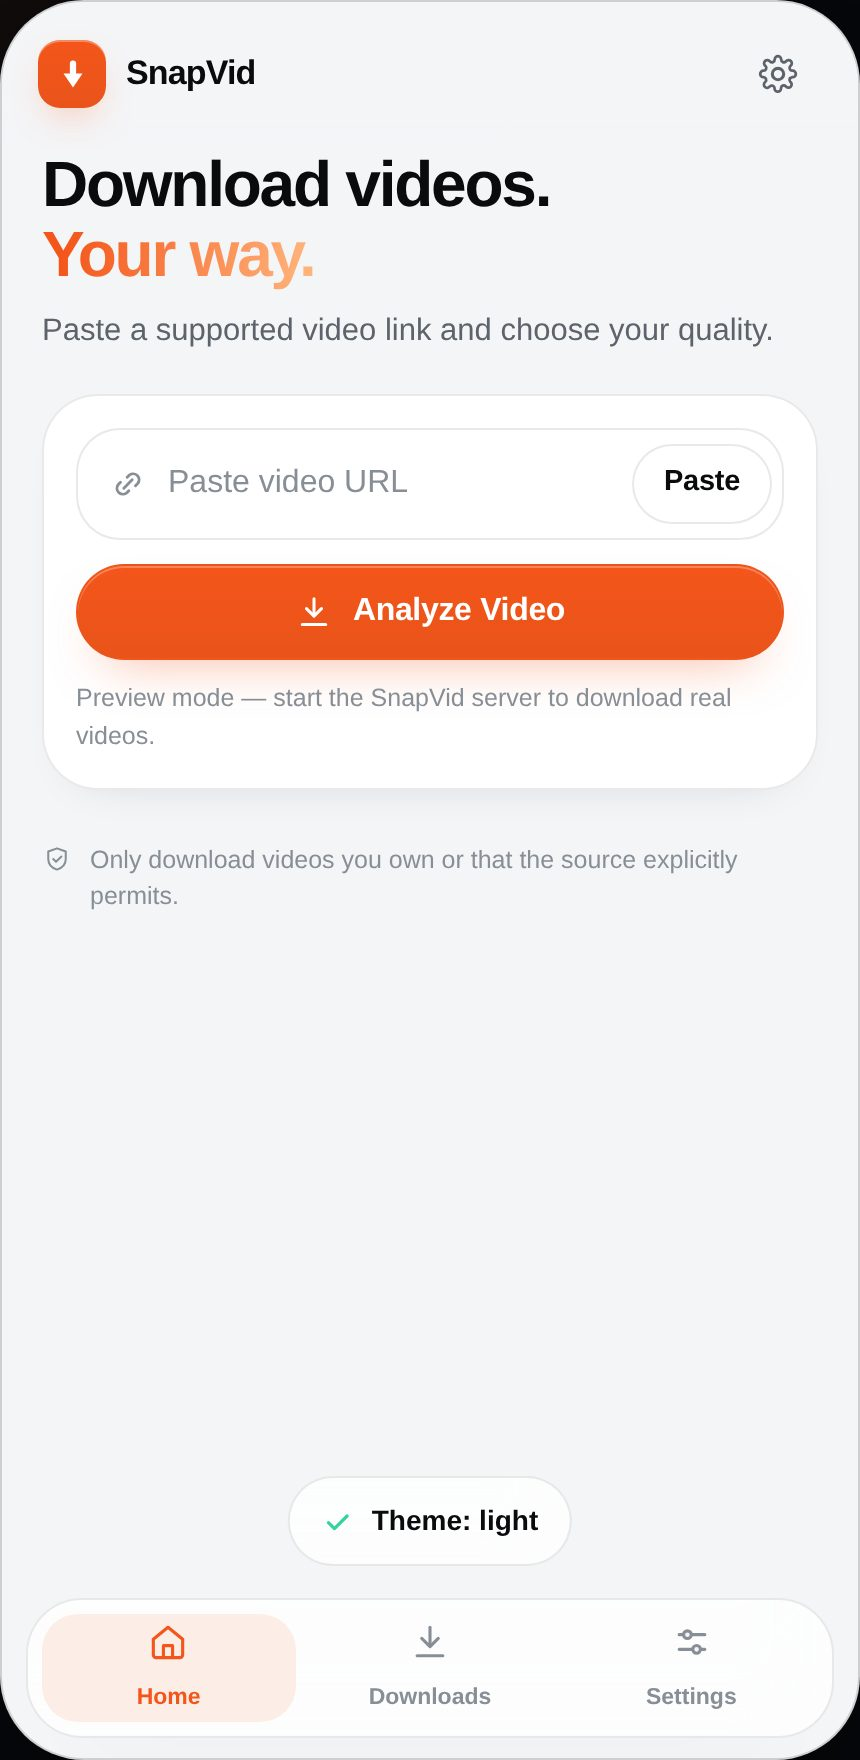
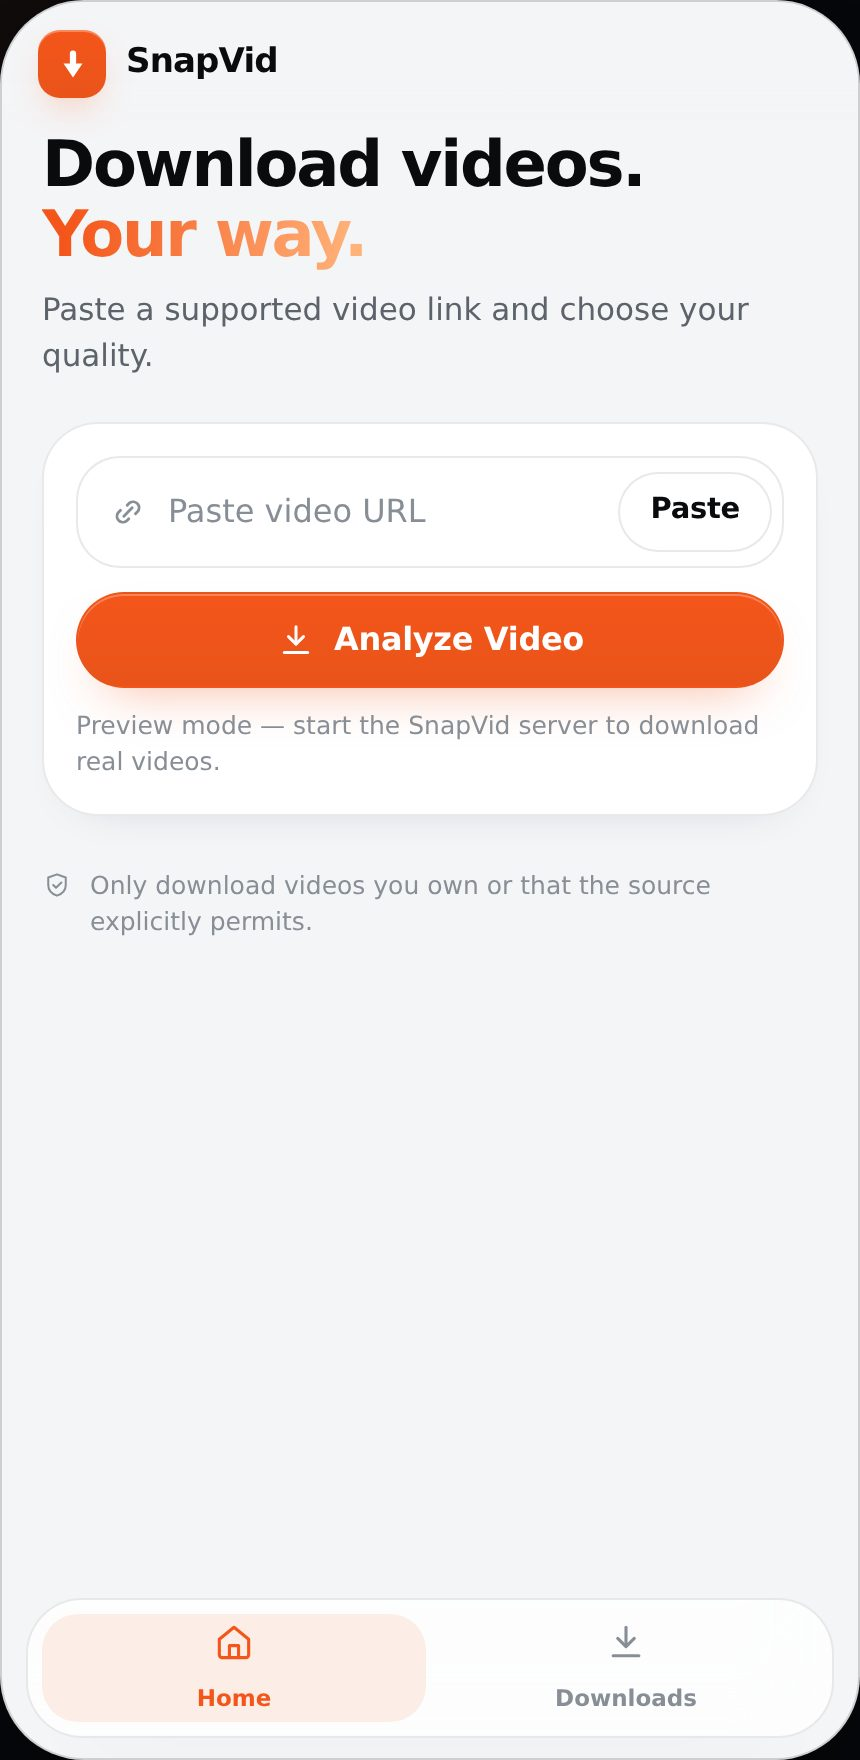
Remove the settings screen
The app now has two destinations — Home and Downloads — and nothing to
configure:

- deleted the whole Settings view (appearance, default quality, Wi-Fi only,
  clear history, privacy card, about line)
- deleted the gear button in the header and the Settings tab (the tab bar is
  a two-column grid now)
- the theme follows the device automatically, so applyTheme() has one source
  of truth and the appearance control is gone
- dropped the state and handlers that only existed for settings
  (defaultQuality, wifiOnly, cycle-quality, clear-history, theme-set) and the
  CSS that only served them (.seg, .thumb-seg, .sw, .setrow, .section, .about)
- "Clear download history" is no longer needed: deleting a row from its menu
  removes the file too, and the empty state comes back

tests + screenshots
- test-simple.js: the settings checks are replaced by checks that the screen,
  the tab, the gear and every leftover control are really gone (55/55)
- shots-simple.js: 12 captures instead of 14 — light mode switches by emulating
  the device theme now, and the empty state is reached by deleting a row
- both script suites ask for the dark scheme explicitly, since the app no
  longer has a theme switch to force it
- screenshots regenerated; 12/13/14-settings* removed, 13-home-light-after-flow
  added
- README: screens table, capture count, "no settings screen" note, and the
  design-system note that the archived studio still shows the dropped screens

diff --git a/index.html b/index.html
@@ -206,29 +206,12 @@ h1,h2,h3,p{margin:0}
 .facts li span:first-child{color:var(--text-3);font-size:13px}
 .facts li span:last-child{font-weight:560;text-align:right}
 
-/* ---------- settings ---------- */
-.seg{position:relative;display:grid;grid-auto-flow:column;grid-auto-columns:1fr;gap:3px;padding:3px;border-radius:var(--pill);
-  background:var(--card-2);border:1px solid var(--stroke);margin-top:10px}
-[data-theme=dark] .seg{background:rgba(255,255,255,.05)}
-.seg button{position:relative;z-index:1;height:38px;border-radius:var(--pill);font-size:14px;font-weight:600;color:var(--text-2);transition:color var(--t)}
-.seg button[aria-selected=true]{color:var(--text)}
-.seg .thumb-seg{position:absolute;z-index:0;top:3px;bottom:3px;left:3px;border-radius:var(--pill);background:var(--surface);
-  border:1px solid var(--stroke);box-shadow:0 2px 8px -4px rgba(0,0,0,.5);transition:transform var(--t)}
-[data-theme=dark] .seg .thumb-seg{background:#22262C;border-color:rgba(255,255,255,.09)}
-.sw{position:relative;width:52px;height:32px;flex:none;border-radius:var(--pill);background:var(--stroke-2);transition:background var(--t)}
-.sw::after{content:"";position:absolute;top:3px;left:3px;width:26px;height:26px;border-radius:50%;background:#fff;
-  box-shadow:0 2px 6px rgba(0,0,0,.35);transition:transform var(--t)}
-.sw[aria-checked=true]{background:var(--accent)}
-.sw[aria-checked=true]::after{transform:translateX(20px)}
-.setrow{display:flex;align-items:center;gap:14px;width:100%;min-height:58px;padding:10px 14px;text-align:left;border-bottom:1px solid var(--stroke)}
-.setrow:last-child{border-bottom:0}
-.setrow .v{margin-left:auto;color:var(--text-2);font-size:14px;display:flex;align-items:center;gap:6px}
-.section{margin-top:26px}
+
 .card--list{padding:0 14px}
 
 /* ---------- tab bar ---------- */
 .tabbar{position:absolute;left:12px;right:12px;bottom:calc(10px + env(safe-area-inset-bottom));z-index:30;
-  display:grid;grid-template-columns:repeat(3,1fr);gap:4px;padding:7px;border-radius:var(--r-xl);
+  display:grid;grid-template-columns:repeat(2,1fr);gap:4px;padding:7px;border-radius:var(--r-xl);
   background:var(--glass);border:1px solid var(--stroke);backdrop-filter:blur(22px) saturate(1.7);-webkit-backdrop-filter:blur(22px) saturate(1.7);
   box-shadow:var(--shadow);transition:opacity var(--t),transform var(--t)}
 .phone[data-tabs=off] .tabbar{opacity:0;transform:translateY(14px);pointer-events:none}
@@ -264,7 +247,7 @@ h1,h2,h3,p{margin:0}
 @keyframes tin{from{opacity:0;transform:translate(-50%,12px) scale(.96)}}
 .policy{display:flex;gap:9px;align-items:flex-start;margin-top:26px;font-size:12.5px;color:var(--text-3);line-height:1.45}
 .policy svg{flex:none;margin-top:1px}
-.about{text-align:center;font-size:12.5px;color:var(--text-3);margin-top:26px}
+
 .spin{width:18px;height:18px;flex:none;border-radius:50%;border:2.4px solid rgba(255,255,255,.3);border-top-color:#fff;animation:spin .9s linear infinite}
 @keyframes spin{to{transform:rotate(360deg)}}
 [data-theme=light] .spin{border-color:rgba(255,255,255,.45);border-top-color:#fff}
@@ -282,10 +265,6 @@ h1,h2,h3,p{margin:0}
       </span>
       <b>SnapVid</b>
     </div>
-    <span class="spacer"></span>
-    <button class="icon-btn" id="toSettings" aria-label="Open settings">
-      <svg class="ico" width="22" height="22" viewBox="0 0 24 24" fill="none" stroke="currentColor" stroke-width="1.7" stroke-linecap="round"><circle cx="12" cy="12" r="3.1"/><path d="M19.3 14.9a1.7 1.7 0 0 0 .3 1.9l.1.1a2 2 0 1 1-2.8 2.8l-.1-.1a1.7 1.7 0 0 0-2.9 1.2v.2a2 2 0 1 1-4 0v-.1a1.7 1.7 0 0 0-2.9-1.2l-.1.1a2 2 0 1 1-2.8-2.8l.1-.1a1.7 1.7 0 0 0-1.2-2.9H3a2 2 0 1 1 0-4h.1a1.7 1.7 0 0 0 1.2-2.9l-.1-.1a2 2 0 1 1 2.8-2.8l.1.1a1.7 1.7 0 0 0 2.9-1.2V3a2 2 0 1 1 4 0v.1a1.7 1.7 0 0 0 2.9 1.2l.1-.1a2 2 0 1 1 2.8 2.8l-.1.1a1.7 1.7 0 0 0 1.2 2.9h.2a2 2 0 1 1 0 4h-.1a1.7 1.7 0 0 0-1.5 1Z" transform="scale(.88) translate(1.6 1.6)"/></svg>
-    </button>
   </header>
 
   <!-- ============ views ============ -->
@@ -438,48 +417,6 @@ h1,h2,h3,p{margin:0}
       </p>
     </section>
 
-    <!-- SETTINGS -->
-    <section class="view" data-view="settings" tabindex="-1" aria-labelledby="t-settings">
-      <h1 class="h2" id="t-settings">Settings</h1>
-
-      <p class="label section">Appearance</p>
-      <div class="seg" id="seg" role="tablist" aria-label="Appearance">
-        <span class="thumb-seg" id="segThumb" style="width:calc((100% - 6px)/3)"></span>
-        <button role="tab" data-theme-set="dark" aria-selected="true">Dark</button>
-        <button role="tab" data-theme-set="light" aria-selected="false">Light</button>
-        <button role="tab" data-theme-set="system" aria-selected="false">System</button>
-      </div>
-
-      <p class="label section">Download</p>
-      <ul class="list card card--list" style="padding:0 14px;margin-top:10px">
-        <li><div class="setrow">
-          <span class="row__t"><b style="font-size:15px">Default quality</b><span class="row__meta">Used when several options exist</span></span>
-          <span class="v" id="defQuality">1080p</span>
-        </div></li>
-        <li><div class="setrow">
-          <span class="row__t"><b style="font-size:15px">Save to</b><span id="savedSub">Downloads go straight to your gallery</span></span>
-          <span class="v" id="savedVal">Photos ▸ SnapVid</span>
-        </div></li>
-        <li><button class="setrow" data-act="cycle-quality">
-          <span class="row__t"><b style="font-size:15px">Change default</b><span class="row__meta">1080p → 720p → 480p</span></span>
-          <span class="v">›</span>
-        </button></li>
-        <li><div class="setrow">
-          <span class="row__t"><b style="font-size:15px">Wi‑Fi only</b><span class="row__meta">Queue downloads until you're on Wi‑Fi</span></span>
-          <button class="sw" id="wifiSw" role="switch" aria-checked="true" aria-label="Wi-Fi only"></button>
-        </div></li>
-        <li><button class="setrow" data-act="clear-history">
-          <span class="row__t"><b style="font-size:15px;color:var(--danger)">Clear download history</b><span class="row__meta">Removes records · keeps your files</span></span>
-        </button></li>
-      </ul>
-
-      <p class="label section">Privacy</p>
-      <div class="card card--pad" style="margin-top:10px">
-        <p class="sub">SnapVid only processes videos you're authorized to download or that the source explicitly permits. It does not bypass DRM, paywalls, logins or platform download limits.</p>
-      </div>
-
-      <p class="about">SnapVid 1.0 · Save your favorite videos, simply.</p>
-    </section>
   </main>
 
   <!-- ============ bottom navigation ============ -->
@@ -491,10 +428,6 @@ h1,h2,h3,p{margin:0}
     <button data-go="downloads">
       <svg class="ico" width="22" height="22" viewBox="0 0 24 24" fill="none" stroke="currentColor" stroke-width="1.7" stroke-linecap="round" stroke-linejoin="round"><path d="M12 4v10"/><path d="m7.5 10 4.5 4.5L16.5 10"/><path d="M5 19.5h14"/></svg>
       Downloads
-    </button>
-    <button data-go="settings">
-      <svg class="ico" width="22" height="22" viewBox="0 0 24 24" fill="none" stroke="currentColor" stroke-width="1.7" stroke-linecap="round"><path d="M5 8h14M5 16h14"/><circle cx="9.5" cy="8" r="2.1" fill="var(--bg)"/><circle cx="14.5" cy="16" r="2.1" fill="var(--bg)"/></svg>
-      Settings
     </button>
   </nav>
 </div>
@@ -531,25 +464,22 @@ function setNameFromUrl(url) {
   $("#cTitle").textContent = current.title;
 }
 
-var state = { view: "home", theme: "dark", pref: "dark", url: "", quality: "720", progress: 0, paused: false, defaultQuality: "1080", wifiOnly: true, timer: null };
+var state = { view: "home", theme: "dark", pref: "auto", url: "", quality: "720", progress: 0, paused: false, timer: null };
 
 var $ = function (s, r) { return (r || document).querySelector(s); };
 var $$ = function (s, r) { return Array.prototype.slice.call((r || document).querySelectorAll(s)); };
 var phone = $("#phone"), views = $("#views");
 
 /* ============================ theme ============================ */
+/* No settings screen any more — the theme just follows the device. */
 function applyTheme() {
-  var t = state.pref;
-  if (t === "system") t = matchMedia("(prefers-color-scheme: light)").matches ? "light" : "dark";
+  var t = state.pref === "light" || state.pref === "dark"
+    ? state.pref
+    : (matchMedia("(prefers-color-scheme: light)").matches ? "light" : "dark");
   state.theme = t;
   document.documentElement.setAttribute("data-theme", t);
   var m = document.querySelector('meta[name=theme-color]');
   if (m) m.setAttribute("content", t === "dark" ? "#08090B" : "#F4F5F7");
-  $$("#seg button").forEach(function (b) { b.setAttribute("aria-selected", String(b.dataset.themeSet === state.pref)); });
-  var i = ["dark", "light", "system"].indexOf(state.pref);
-  var thumb = $("#segThumb");
-  thumb.style.transform = "translateX(" + (i * 100) + "%)";
-  thumb.style.width = "calc((100% - 6px)/3)";
 }
 
 /* ============================ views ============================ */
@@ -788,10 +718,9 @@ function toast(msg) {
 
 /* ============================ events ============================ */
 document.addEventListener("click", function (ev) {
-  var t = ev.target.closest("[data-go],[data-back],[data-cancel],[data-menu],[data-del],[data-toast],[data-act],[data-theme-set],[data-q],#pasteBtn,#clearBtn,#analyzeBtn,#downloadBtn,#pauseBtn,#againBtn,#retryBtn,#wifiSw,#toSettings");
+  var t = ev.target.closest("[data-go],[data-back],[data-cancel],[data-menu],[data-del],[data-toast],[data-q],#pasteBtn,#clearBtn,#analyzeBtn,#downloadBtn,#pauseBtn,#againBtn,#retryBtn");
   if (!t) return;
 
-  if (t.dataset.themeSet) { state.pref = t.dataset.themeSet; applyTheme(); toast("Theme: " + t.dataset.themeSet); return; }
   if (t.dataset.go) { setView(t.dataset.go); renderRecent(); renderDownloads(); return; }
   if (t.hasAttribute("data-back")) { setView("quality"); return; }
   if (t.hasAttribute("data-cancel")) { clearInterval(state.timer); state.timer = null; setView("quality"); toast("Download cancelled"); return; }
@@ -802,7 +731,6 @@ document.addEventListener("click", function (ev) {
   }
   if (t.dataset.toast) { closeMenu(); toast(t.dataset.toast); return; }
   if (t.dataset.q) { pickQuality(t.dataset.q); return; }
-  if (t.id === "toSettings") { setView("settings"); return; }
   if (t.id === "pasteBtn") { pasteFromClipboard(); return; }
   if (t.id === "clearBtn") { state.url = ""; $("#url").value = ""; $("#clearBtn").hidden = true; clearError(); return; }
   if (t.id === "analyzeBtn") { analyze(); return; }
@@ -814,15 +742,6 @@ document.addEventListener("click", function (ev) {
   }
   if (t.id === "againBtn") { state.url = ""; $("#url").value = ""; $("#clearBtn").hidden = true; setView("home"); renderRecent(); return; }
   if (t.id === "retryBtn") { clearError(); $("#hint").className = "hint"; $("#hint").textContent = "Works only with sources that allow downloading."; $("#url").focus(); return; }
-  if (t.id === "wifiSw") { state.wifiOnly = !state.wifiOnly; t.setAttribute("aria-checked", String(state.wifiOnly)); return; }
-  if (t.dataset.act === "cycle-quality") {
-    var order = ["1080", "720", "480"];
-    state.defaultQuality = order[(order.indexOf(state.defaultQuality) + 1) % order.length];
-    $("#defQuality").textContent = state.defaultQuality + "p"; toast("Default quality: " + state.defaultQuality + "p"); return;
-  }
-  if (t.dataset.act === "clear-history") {
-    DOWNLOADS = []; renderDownloads(); renderRecent(); toast("History cleared · files kept"); return;
-  }
 });
 
 $("#url").addEventListener("input", function () {
@@ -836,7 +755,7 @@ $("#url").addEventListener("keydown", function (e) { if (e.key === "Enter") anal
 document.addEventListener("keydown", function (e) {
   if (e.key === "Escape") { closeMenu(); var t = $(".toast"); if (t) t.remove(); }
 });
-matchMedia("(prefers-color-scheme: light)").addEventListener("change", function () { if (state.pref === "system") applyTheme(); });
+matchMedia("(prefers-color-scheme: light)").addEventListener("change", function () { applyTheme(); });
 
 /* ============================ boot ============================ */
 applyTheme(); renderQuality(); renderRecent(); renderDownloads(); setView("home");
@@ -895,10 +814,6 @@ applyTheme(); renderQuality(); renderRecent(); renderDownloads(); setView("home"
       if (hint && document.getElementById("errorBox").hidden) {
         hint.textContent = "Connected to your SnapVid server" + (S.engine && S.engine.ffmpeg && S.engine.ffmpeg.ok ? "" : " · ffmpeg missing") + ".";
       }
-      var val = document.getElementById("savedVal");
-      var sub = document.getElementById("savedSub");
-      if (val) val.textContent = "Your device (Downloads)";
-      if (sub) sub.textContent = "Tap Save or Share after a download to move it into Photos";
       restoreHistory();
     }).catch(function () { markPreview(); });
     /* no answer at all (offline, or opened as a plain file) */

diff --git a/design-system/tools/shots-simple.js b/design-system/tools/shots-simple.js
@@ -11,6 +11,8 @@ const FILE = "file://" + path.join(__dirname, "..", "..", "index.html");
   const errs = [];
   page.on("pageerror", (e) => errs.push(e.message));
   page.on("console", (m) => { if (m.type() === "error") errs.push(m.text()); });
+  /* the app follows the device theme, so ask for dark explicitly */
+  await page.emulateMedia({ colorScheme: "dark" });
   await page.goto(FILE, { waitUntil: "load" });
   await page.waitForTimeout(400);
 
@@ -25,11 +27,12 @@ const FILE = "file://" + path.join(__dirname, "..", "..", "index.html");
   /* 1 — home, empty */
   await shot("01-home-empty-dark");
   await page.evaluate(() => document.querySelector('[data-theme-set]') && null);
-  await nav("settings"); await tap('[data-theme-set="light"]'); await nav("home");
-  await page.waitForTimeout(350);
+  /* light: the theme follows the device now, so emulate a light device */
+  await page.emulateMedia({ colorScheme: "light" });
+  await page.waitForTimeout(400);
   await shot("02-home-empty-light");
-  await nav("settings"); await tap('[data-theme-set="dark"]'); await nav("home");
-  await page.waitForTimeout(250);
+  await page.emulateMedia({ colorScheme: "dark" });
+  await page.waitForTimeout(300);
 
   /* 2 — error state (invalid link) */
   await tap("#analyzeBtn");
@@ -70,23 +73,21 @@ const FILE = "file://" + path.join(__dirname, "..", "..", "index.html");
   await page.keyboard.press("Escape");
   await page.waitForTimeout(250);
 
-  /* 7 — clear history → empty state */
-  await nav("settings");
-  await tap('[data-act="clear-history"]');
-  await nav("downloads");
-  await page.waitForTimeout(450);
-  await shot("11-downloads-empty-dark");
-
-  /* 8 — settings, dark + light */
-  await nav("settings");
-  await page.waitForTimeout(300);
-  await shot("12-settings-dark");
-  await tap('[data-theme-set="light"]');
-  await page.waitForTimeout(400);
-  await shot("13-settings-light");
+  /* 7 — home in light, showing the recent list this flow created */
+  await page.emulateMedia({ colorScheme: "light" });
   await nav("home");
+  await page.waitForTimeout(450);
+  await shot("12-home-light-after-flow");
+  await page.emulateMedia({ colorScheme: "dark" });
   await page.waitForTimeout(300);
-  await shot("14-home-light-after-flow");
+
+  /* 8 — delete the file → the honest empty state */
+  await nav("downloads");
+  await tap("#dlGroups [data-menu]");
+  await page.waitForTimeout(400);
+  await tap("[data-del]");
+  await page.waitForTimeout(500);
+  await shot("11-downloads-empty-dark");
 
   console.log(errs.length ? "errors: " + errs.slice(0, 5).join(" | ") : "no console errors");
   await browser.close();

diff --git a/design-system/tools/test-simple.js b/design-system/tools/test-simple.js
@@ -114,22 +114,18 @@ JSDOM.fromFile(FILE, {
   click('[data-go="home"]');
   ok("recent hides again when empty", $("#recentWrap").hidden === true);
 
-  /* ---------- 9. settings ---------- */
-  click('[data-go="settings"]');
-  ok("settings view", view() === "settings");
-  click('[data-theme-set="light"]');
-  ok("light theme", d.documentElement.dataset.theme === "light");
-  ok("segmented control reflects theme", $('#seg button[aria-selected="true"]').dataset.themeSet === "light");
-  click("#wifiSw");
-  ok("switch toggles", $("#wifiSw").getAttribute("aria-checked") === "false");
-  click('[data-act="cycle-quality"]');
-  ok("default quality cycles", $("#defQuality").textContent === "720p", $("#defQuality").textContent);
-  click('[data-theme-set="dark"]');
-  ok("dark theme back", d.documentElement.dataset.theme === "dark");
+  /* ---------- 9. no settings screen any more ---------- */
+  ok("there is no settings view", d.querySelector('.view[data-view="settings"]') === null);
+  ok("there is no settings tab", d.querySelector('.tabbar [data-go="settings"]') === null);
+  ok("tab bar has exactly two destinations", d.querySelectorAll(".tabbar button").length === 2,
+    String(d.querySelectorAll(".tabbar button").length));
+  ok("no gear button in the header", d.querySelector("#toSettings") === null);
+  ok("no leftover settings controls", d.querySelectorAll("#seg,#wifiSw,#defQuality,[data-theme-set],[data-act]").length === 0);
+  ok("theme follows the device instead", ["dark", "light"].indexOf(d.documentElement.dataset.theme) > -1,
+    d.documentElement.dataset.theme);
 
   /* ---------- 10. a11y + hygiene ---------- */
   ok("icon buttons are labelled", Array.from(d.querySelectorAll("button")).filter((b) => !b.textContent.trim() && !b.getAttribute("aria-label")).length === 0);
-  ok("switch has a label", $("#wifiSw").getAttribute("aria-label") === "Wi-Fi only");
   ok("no runtime errors", errs.length === 0, errs.slice(0, 2).join(" | "));
 
   const bad = out.filter((o) => !o.c);

diff --git a/live.js b/live.js
@@ -51,10 +51,6 @@
       if (hint && document.getElementById("errorBox").hidden) {
         hint.textContent = "Connected to your SnapVid server" + (S.engine && S.engine.ffmpeg && S.engine.ffmpeg.ok ? "" : " · ffmpeg missing") + ".";
       }
-      var val = document.getElementById("savedVal");
-      var sub = document.getElementById("savedSub");
-      if (val) val.textContent = "Your device (Downloads)";
-      if (sub) sub.textContent = "Tap Save or Share after a download to move it into Photos";
       restoreHistory();
     }).catch(function () { markPreview(); });
     /* no answer at all (offline, or opened as a plain file) */

diff --git a/design-system/tools/test-live.js b/design-system/tools/test-live.js
@@ -35,7 +35,7 @@ const txt = (page, sel) => page.$eval(sel, (el) => el.textContent.trim());
 (async () => {
   console.log("\nSnapVid live app test — " + BASE + "\n");
   const browser = await chromium.launch();
-  const page = await browser.newPage({ viewport: { width: 430, height: 932 }, deviceScaleFactor: 2 });
+  const page = await browser.newPage({ viewport: { width: 430, height: 932 }, deviceScaleFactor: 2, colorScheme: "dark" });
   const errors = [];
   page.on("pageerror", (e) => errors.push(String(e)));
   page.on("console", (m) => { if (m.type() === "error") errors.push(m.text()); });

diff --git a/README.md b/README.md
@@ -19,6 +19,7 @@ npm start                 # → http://localhost:8787   (needs python3 + yt-dlp 
 ```
 
 <p align="center">
+  <img src="assets/screens/01-home-empty-dark.jpg" width="24%" alt="Home" />
   <img src="assets/screens/live-01-quality-real.jpg" width="24%" alt="Real link, real qualities" />
   <img src="assets/screens/live-02-paused-real.jpg" width="24%" alt="Paused mid-download" />
   <img src="assets/screens/live-07-downloads-real.jpg" width="24%" alt="Real download history" />
@@ -121,6 +122,10 @@ The app never claims the file is already in Photos: in live mode the completion 
 
 ## The app
 
+There is **no settings screen** — the app has two destinations, Home and Downloads. The theme follows
+the device automatically (dark/light), so there is nothing to configure: quality is chosen per download,
+and the file's destination is decided by your browser/OS, not by a preference.
+
 `index.html` is the whole interface — one self-contained file (CSS, JS, icon inlined), no build step.
 It carries the live layer in a separate block at the bottom (`live.js`, inlined by
 `node design-system/tools/inline-live.js` so the file stays self-contained). If no server answers, the
@@ -134,9 +139,9 @@ from the link you paste or the files you actually download.
 |---|---|
 | **Home** — hero, URL field (paste / clear), `Analyze Video`, recent downloads | **Choose quality** — one row per resolution the source really has, with real sizes and a checkmark |
 | **Downloading** — progress ring, %, MB done of total, speed, ETA, `Pause` / `Resume` / `Cancel` | **Complete** — animated check, quality + size summary, `Open` / `Share` / `Download another` |
-| **Downloads** — Today / Yesterday / Older, row menu: Save, Open, Copy link, Delete | **Settings** — Dark / Light / System, default quality, where files go, clear history, privacy note |
+| **Downloads** — Today / Yesterday / Older, row menu: Save, Open, Copy link, Delete | **Theme** — the app follows your device, dark and light, no settings screen |
 
-21 captures: 14 of the interface, 7 from real runs — [`assets/screens/`](assets/screens).
+19 captures: 12 of the interface, 7 from real runs — [`assets/screens/`](assets/screens).
 
 ---
 
@@ -163,6 +168,8 @@ LICENSE                 MIT
 
 The first pass at this brief — an interactive studio: 13 screens across iPhone / Android / tablet /
 desktop, dark + light, error and empty galleries, a live brand style guide, and the test pipelines.
+It is the archived design system, so it still shows the screens the app later dropped (including the
+settings screen) — the app itself no longer has them.
 
 ```bash
 cd design-system
@@ -175,7 +182,7 @@ node tools/inline-live.js     # re-inline live.js after editing it
 
 # test-live.js writes its captures to design-system/preview/ (ignored) so a run
 # never dirties the repo. To refresh the committed ones:
-SHOTS_OUT=../../assets/screens node tools/test-live.js
+SHOTS_OUT=assets/screens node tools/test-live.js        # (repo-root relative)
 ```
 
 ---
